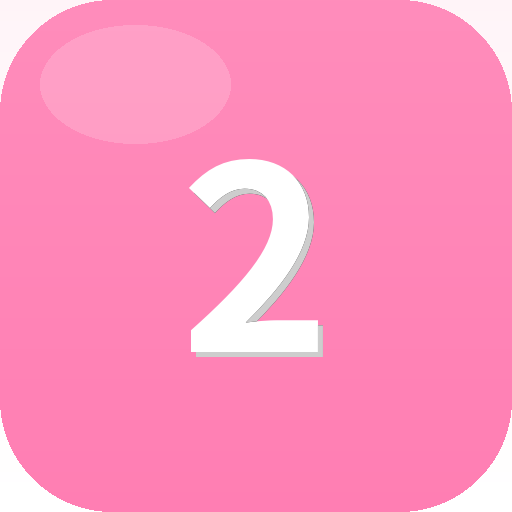
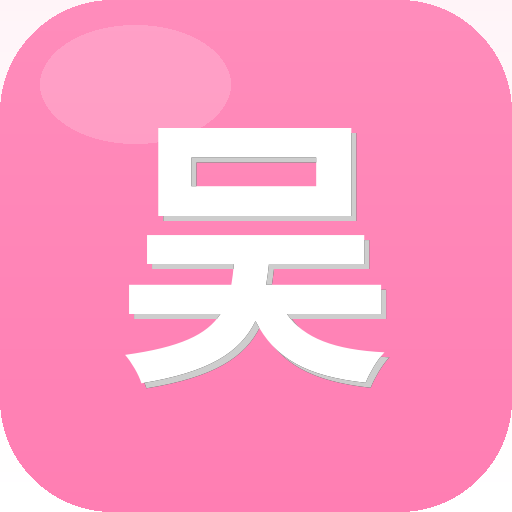
图标改粉色吴字 + 热点视频可点击跳转观看 + 左栏30%右栏70%

Changed region(s): [[0.25, 0.25, 0.7812, 0.7812]]

diff --git a/index.html b/index.html
@@ -62,7 +62,8 @@
 
   /* 左侧栏 */
   .sidebar {
-    width: 168px; background: rgba(255,255,255,0.96); backdrop-filter: blur(10px);
+    flex: 0 0 30%; max-width: 180px; min-width: 120px;
+    background: rgba(255,255,255,0.96); backdrop-filter: blur(10px);
     border-radius: 18px; margin: 8px 6px 8px 12px; padding: 14px 10px;
     box-shadow: 0 4px 20px rgba(0,0,0,0.06);
     display: flex; flex-direction: column; gap: 6px; z-index: 4; overflow-y: auto;
@@ -80,7 +81,7 @@
 
   /* 右侧内容区 */
   .content {
-    flex: 1; margin: 8px 12px 8px 6px;
+    flex: 0 0 70%; margin: 8px 12px 8px 6px;
     background: rgba(255,255,255,0.85); backdrop-filter: blur(10px);
     border-radius: 18px; padding: 14px;
     box-shadow: 0 4px 20px rgba(0,0,0,0.06); overflow-y: auto; position: relative;
@@ -155,8 +156,10 @@
   .idea-card .tag { display: inline-block; font-size: 10px; background: rgba(245,181,0,0.15); color: #b87600; padding: 1px 6px; border-radius: 4px; margin-right: 4px; }
 
   /* 热点视频 */
-  .hot-item { display: flex; gap: 10px; background: #fff; padding: 10px; border-radius: 12px; border: 1px solid #f0f0f0; margin-bottom: 8px; }
-  .hot-thumb { width: 70px; height: 70px; border-radius: 8px; background: linear-gradient(135deg, #ff6b6b, #ee5a52); color: #fff; display: flex; align-items: center; justify-content: center; font-size: 24px; flex-shrink: 0; }
+  .hot-item { display: flex; gap: 10px; background: #fff; padding: 10px; border-radius: 12px; border: 1px solid #f0f0f0; margin-bottom: 8px; cursor: pointer; transition: all .2s; text-decoration: none; color: inherit; }
+  .hot-item:active { transform: scale(0.98); border-color: #ff7eb3; box-shadow: 0 2px 8px rgba(255,126,179,0.2); }
+  .hot-item .play-icon { position: absolute; top: 50%; left: 35px; transform: translate(-50%,-50%); width: 28px; height: 28px; border-radius: 50%; background: rgba(0,0,0,0.5); color: #fff; display: flex; align-items: center; justify-content: center; font-size: 12px; }
+  .hot-thumb { position: relative; width: 70px; height: 70px; border-radius: 8px; background: linear-gradient(135deg, #ff6b6b, #ee5a52); color: #fff; display: flex; align-items: center; justify-content: center; font-size: 24px; flex-shrink: 0; }
   .hot-thumb.b2 { background: linear-gradient(135deg, #4facfe, #00f2fe); }
   .hot-thumb.b3 { background: linear-gradient(135deg, #fa709a, #fee140); }
   .hot-info { flex: 1; display: flex; flex-direction: column; justify-content: space-between; }
@@ -235,8 +238,8 @@
   ::-webkit-scrollbar-thumb { background: rgba(0,0,0,0.1); border-radius: 2px;}
 
   @media (max-width: 380px) {
-    .sidebar { width: 140px; }
-    .menu-item { font-size: 13px; padding: 9px 10px;}
+    .sidebar { min-width: 100px; }
+    .menu-item { font-size: 12px; padding: 8px 8px;}
   }
 
   /* PWA 安装提示 & 离线提示 */
@@ -354,35 +357,35 @@
           <div class="panel-title">🔥 爆款热点视频 / 二创 <span class="badge">参考</span></div>
           <button class="sync-btn" onclick="addHot()">📥 收藏</button>
         </div>
-        <div class="panel-tip">全网热门参考 · 可记录你的二创笔记</div>
-        <div class="hot-item">
-          <div class="hot-thumb">🎬</div>
+        <div class="panel-tip">点击视频卡片直接跳转观看 · 可记录二创笔记</div>
+        <a class="hot-item" href="https://www.douyin.com/search/我每天要做的事情的计划%20AI工作台" target="_blank" rel="noopener">
+          <div class="hot-thumb">🎬<div class="play-icon">▶</div></div>
           <div class="hot-info">
             <div class="hot-title">"我每天要做的事情的计划" · 跟着AI搭工作台</div>
-            <div class="hot-meta"><span class="hot">🔥 23.0w 赞</span><span>3034 评论</span><span>11.8w 收藏</span></div>
+            <div class="hot-meta"><span class="hot">🔥 23.0w 赞</span><span>3034 评论</span><span>11.8w 收藏</span><span style="color:#ff7eb3;">▶ 点击观看</span></div>
           </div>
-        </div>
-        <div class="hot-item">
-          <div class="hot-thumb b2">📱</div>
+        </a>
+        <a class="hot-item" href="https://www.bilibili.com/search?keyword=AI工具让普通人也能做老板" target="_blank" rel="noopener">
+          <div class="hot-thumb b2">📱<div class="play-icon">▶</div></div>
           <div class="hot-info">
             <div class="hot-title">AI 工具让普通人也能做老板？这3个必学</div>
-            <div class="hot-meta"><span class="hot">🔥 18.6w 赞</span><span>2840 评论</span><span>9.2w 收藏</span></div>
+            <div class="hot-meta"><span class="hot">🔥 18.6w 赞</span><span>2840 评论</span><span>9.2w 收藏</span><span style="color:#ff7eb3;">▶ 点击观看</span></div>
           </div>
-        </div>
-        <div class="hot-item">
-          <div class="hot-thumb b3">🚀</div>
+        </a>
+        <a class="hot-item" href="https://www.douyin.com/search/一天搭出你的AI工作台" target="_blank" rel="noopener">
+          <div class="hot-thumb b3">🚀<div class="play-icon">▶</div></div>
           <div class="hot-info">
             <div class="hot-title">社会榜TOP11 · 一天搭出你的AI工作台</div>
-            <div class="hot-meta"><span class="hot">🔥 12.4w 赞</span><span>1620 评论</span><span>6.4w 收藏</span></div>
+            <div class="hot-meta"><span class="hot">🔥 12.4w 赞</span><span>1620 评论</span><span>6.4w 收藏</span><span style="color:#ff7eb3;">▶ 点击观看</span></div>
           </div>
-        </div>
-        <div class="hot-item">
-          <div class="hot-thumb">✨</div>
+        </a>
+        <a class="hot-item" href="https://www.xiaohongshu.com/search_result?keyword=AI时代打工人如何不被淘汰" target="_blank" rel="noopener">
+          <div class="hot-thumb">✨<div class="play-icon">▶</div></div>
           <div class="hot-info">
             <div class="hot-title">AI 时代来临，打工人如何不被淘汰？</div>
-            <div class="hot-meta"><span class="hot">🔥 9.8w 赞</span><span>1102 评论</span><span>5.1w 收藏</span></div>
+            <div class="hot-meta"><span class="hot">🔥 9.8w 赞</span><span>1102 评论</span><span>5.1w 收藏</span><span style="color:#ff7eb3;">▶ 点击观看</span></div>
           </div>
-        </div>
+        </a>
         <div id="hotNotes"></div>
       </div>
 
@@ -600,12 +603,16 @@ function editIdea(id, field, val) {
 function renderHotNotes() {
   const notes = DB.get('hotNotes', []);
   const el = document.getElementById('hotNotes');
-  el.innerHTML = '<div style="font-size:12px;color:#999;margin:10px 0 6px;">📌 我的二创笔记</div>';
+  el.innerHTML = '<div style="font-size:12px;color:#999;margin:10px 0 6px;">📌 我的二创笔记（可粘贴视频链接）</div>';
   notes.forEach(n => {
     const d = document.createElement('div');
     d.className = 'note-item';
+    // 检测内容中是否包含链接
+    const content = esc(n.content);
+    const linked = content.replace(/(https?:\/\/[^\s]+)/g, '<a href="$1" target="_blank" rel="noopener" style="color:#ff7eb3;text-decoration:underline;">$1</a>');
     d.innerHTML = `
-      <div contenteditable="true" onblur="editHot(${n.id},this.textContent)" style="white-space:pre-wrap;">${esc(n.content)}</div>
+      <div contenteditable="true" onblur="editHot(${n.id},this.textContent)" style="white-space:pre-wrap;">${content}</div>
+      ${n.content.match(/https?:\/\//) ? `<div style="margin-top:4px;">${linked}</div>` : ''}
       <div class="note-time">${n.time}</div>
       <span class="del-btn" onclick="delHot(${n.id})">✕</span>
     `;
@@ -614,7 +621,7 @@ function renderHotNotes() {
 }
 function addHot() {
   const notes = DB.get('hotNotes',[]);
-  notes.unshift({id:nextId(notes), content:'记录二创思路…', time:getTimeStr()});
+  notes.unshift({id:nextId(notes), content:'粘贴视频链接或记录二创思路…', time:getTimeStr()});
   DB.set('hotNotes',notes); renderHotNotes(); showSave();
 }
 function delHot(id) {
@@ -624,7 +631,7 @@ function delHot(id) {
 function editHot(id, val) {
   const notes = DB.get('hotNotes',[]);
   const n = notes.find(x=>x.id===id); if(!n) return;
-  n.content = val; DB.set('hotNotes',notes); showSave();
+  n.content = val; DB.set('hotNotes',notes); renderHotNotes(); showSave();
 }
 
 // ============ 4. 记账 ============

diff --git a/sw.js b/sw.js
@@ -1,5 +1,5 @@
 // ===== 小吴工作台 Service Worker =====
-const CACHE_NAME = 'xiaowu-workbench-v5-no-statusbar';
+const CACHE_NAME = 'xiaowu-workbench-v6-wu-icon';
 const ASSETS = [
   './',
   './index.html',
